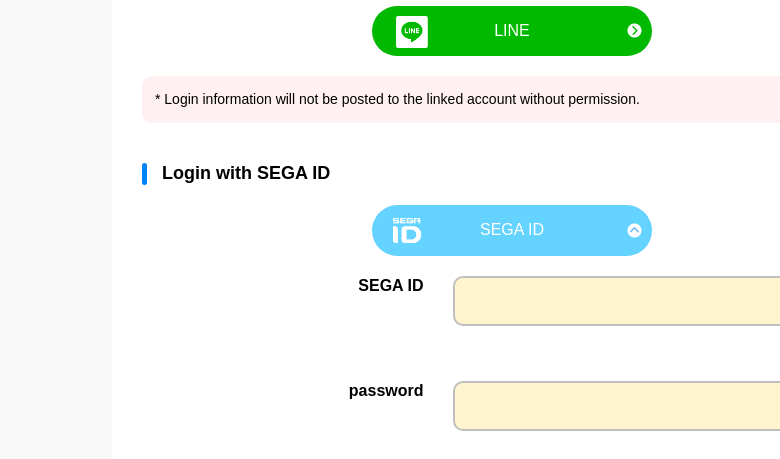
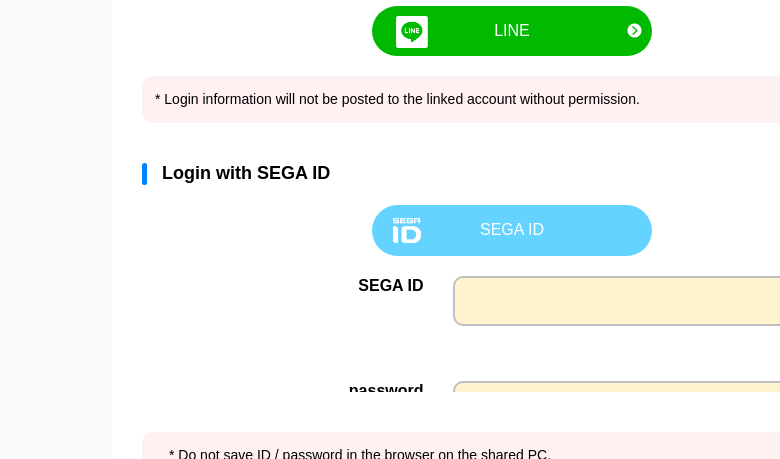
update

Changed region(s): [[0.4308, 0.854, 1.0, 0.9455], [0.2154, 0.976, 0.7077, 1.0], [0.8, 0.488, 0.8308, 0.5185]]

diff --git a/Discord_Bot/commands/constant/constant.js b/Discord_Bot/commands/constant/constant.js
@@ -69,14 +69,15 @@ module.exports = {
 
         async function scrape() {
             const guy = interaction.options.getString('guy');
-            const browser = await puppeteer.launch({
-                
-                executablePath: '/usr/bin/chromium', // Adjust this path if necessary
-                headless: true,
-                args: ['--no-sandbox', '--disable-setuid-sandbox']
-            });
-        
+            
             try {
+                const browser = await puppeteer.launch({
+                    
+                    executablePath: '/usr/bin/chromium', // Adjust this path if necessary
+                    headless: true,
+                    args: ['--no-sandbox', '--disable-setuid-sandbox']
+                });
+        
                 const page = await browser.newPage();
                 await page.setUserAgent(
                     "Mozilla/5.0 (X11; Linux aarch64) AppleWebKit/537.36 (KHTML, like Gecko) Chrome/114.0.5735.90 Safari/537.36"
@@ -84,11 +85,6 @@ module.exports = {
                 await page.setExtraHTTPHeaders({
                     'Accept-Language': 'en-US,en;q=0.9'
                 });
-                await page.goto('https://maimaidx-eng.com');
-                await page.screenshot({ path: 'before_click.png' });
-
-                await page.click('.c-button--openid--segaId');
-                await page.screenshot({ path: 'after_click.png' });
         
                 // Login process
                 try {
@@ -208,8 +204,13 @@ module.exports = {
                 console.error("Error during scrape process:", error);
                 throw error; // Ensure the error propagates
             } finally {
-                // Ensure browser closes in all cases
-                await browser.close();
+                if (browser) {
+                    try {
+                        await browser.close();
+                    } catch (e) {
+                        console.error("Failed to close browser cleanly:", e);
+                    }
+                }
             }
         
             function calculateLevel(constantValue) {

diff --git a/update_user_data.py b/update_user_data.py
@@ -314,7 +314,7 @@ def update():
     collection = db["keyang_top"]
     collection.insert_one(get_top_score())
     print("DONE")
-    driver.close()
+    driver.quit()
 
 
     # except Exception as e:
